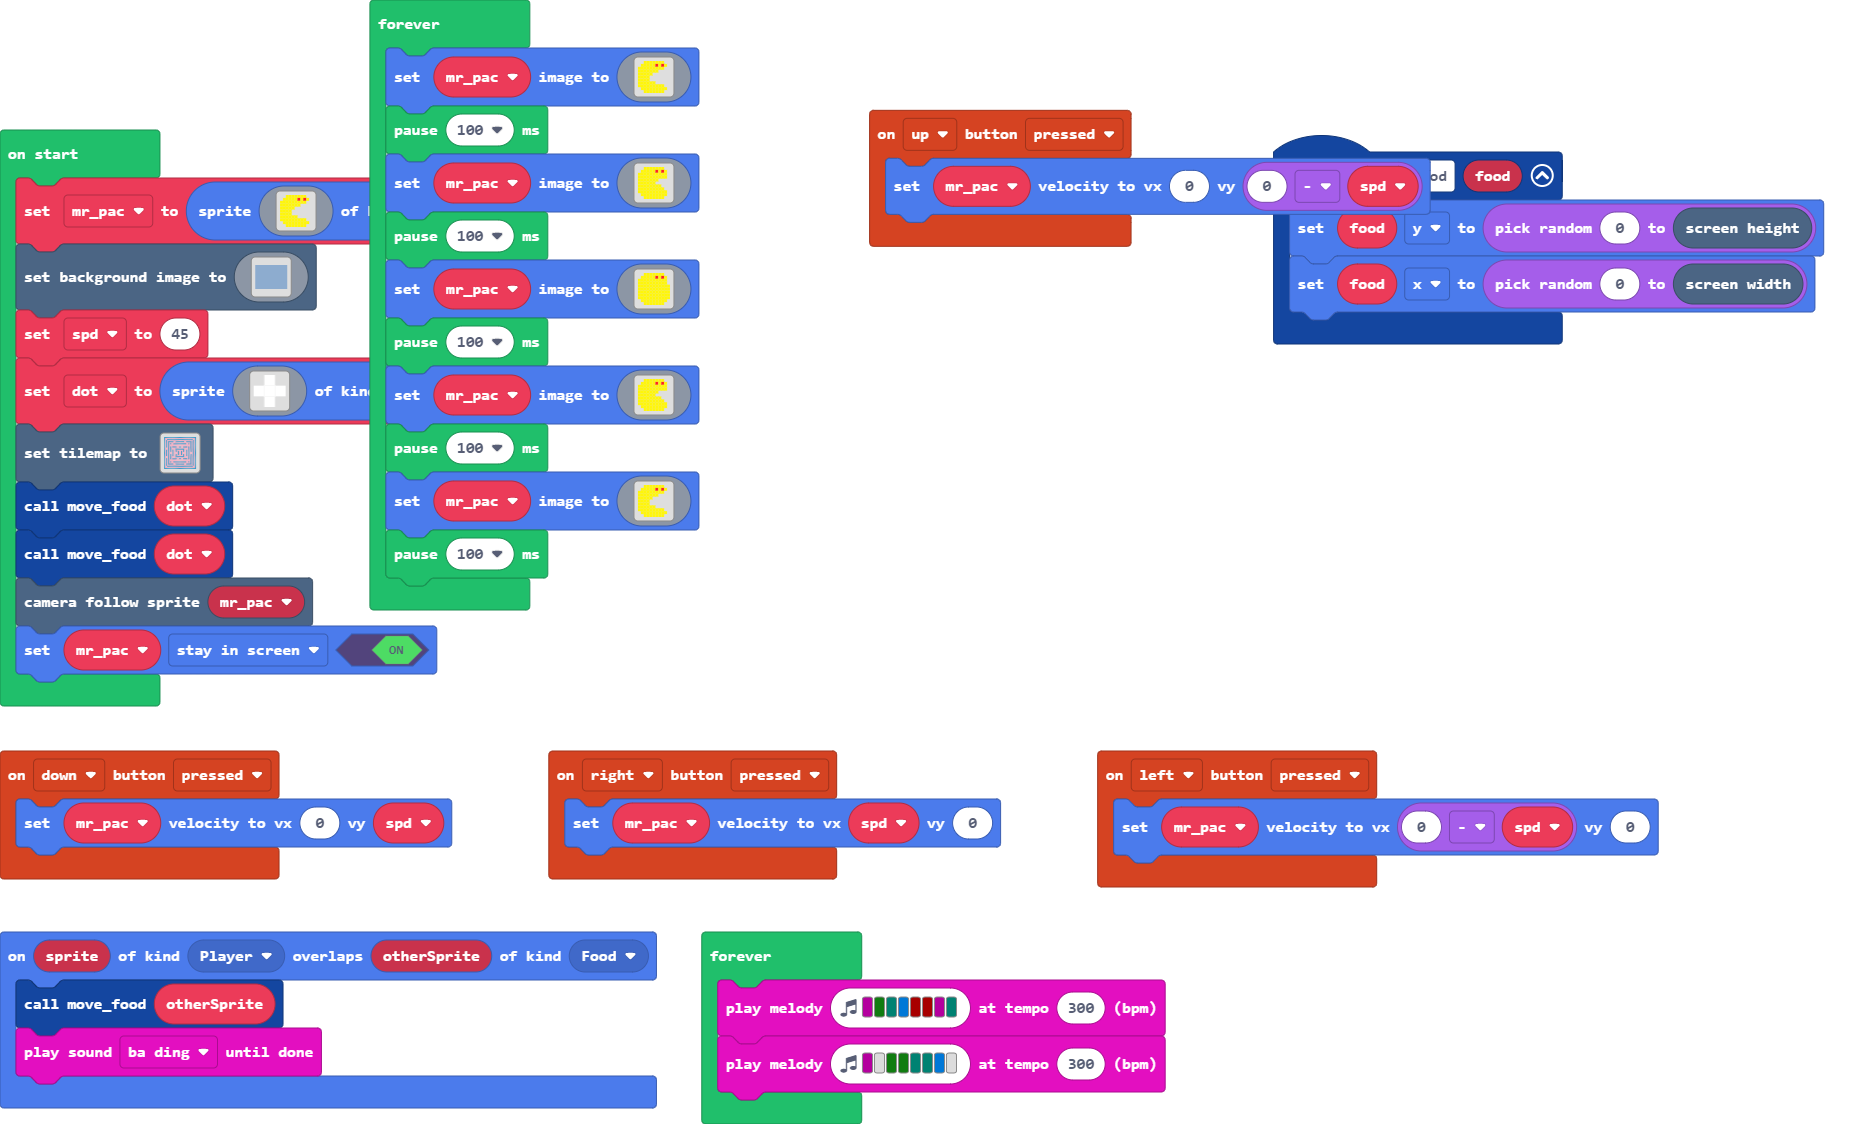
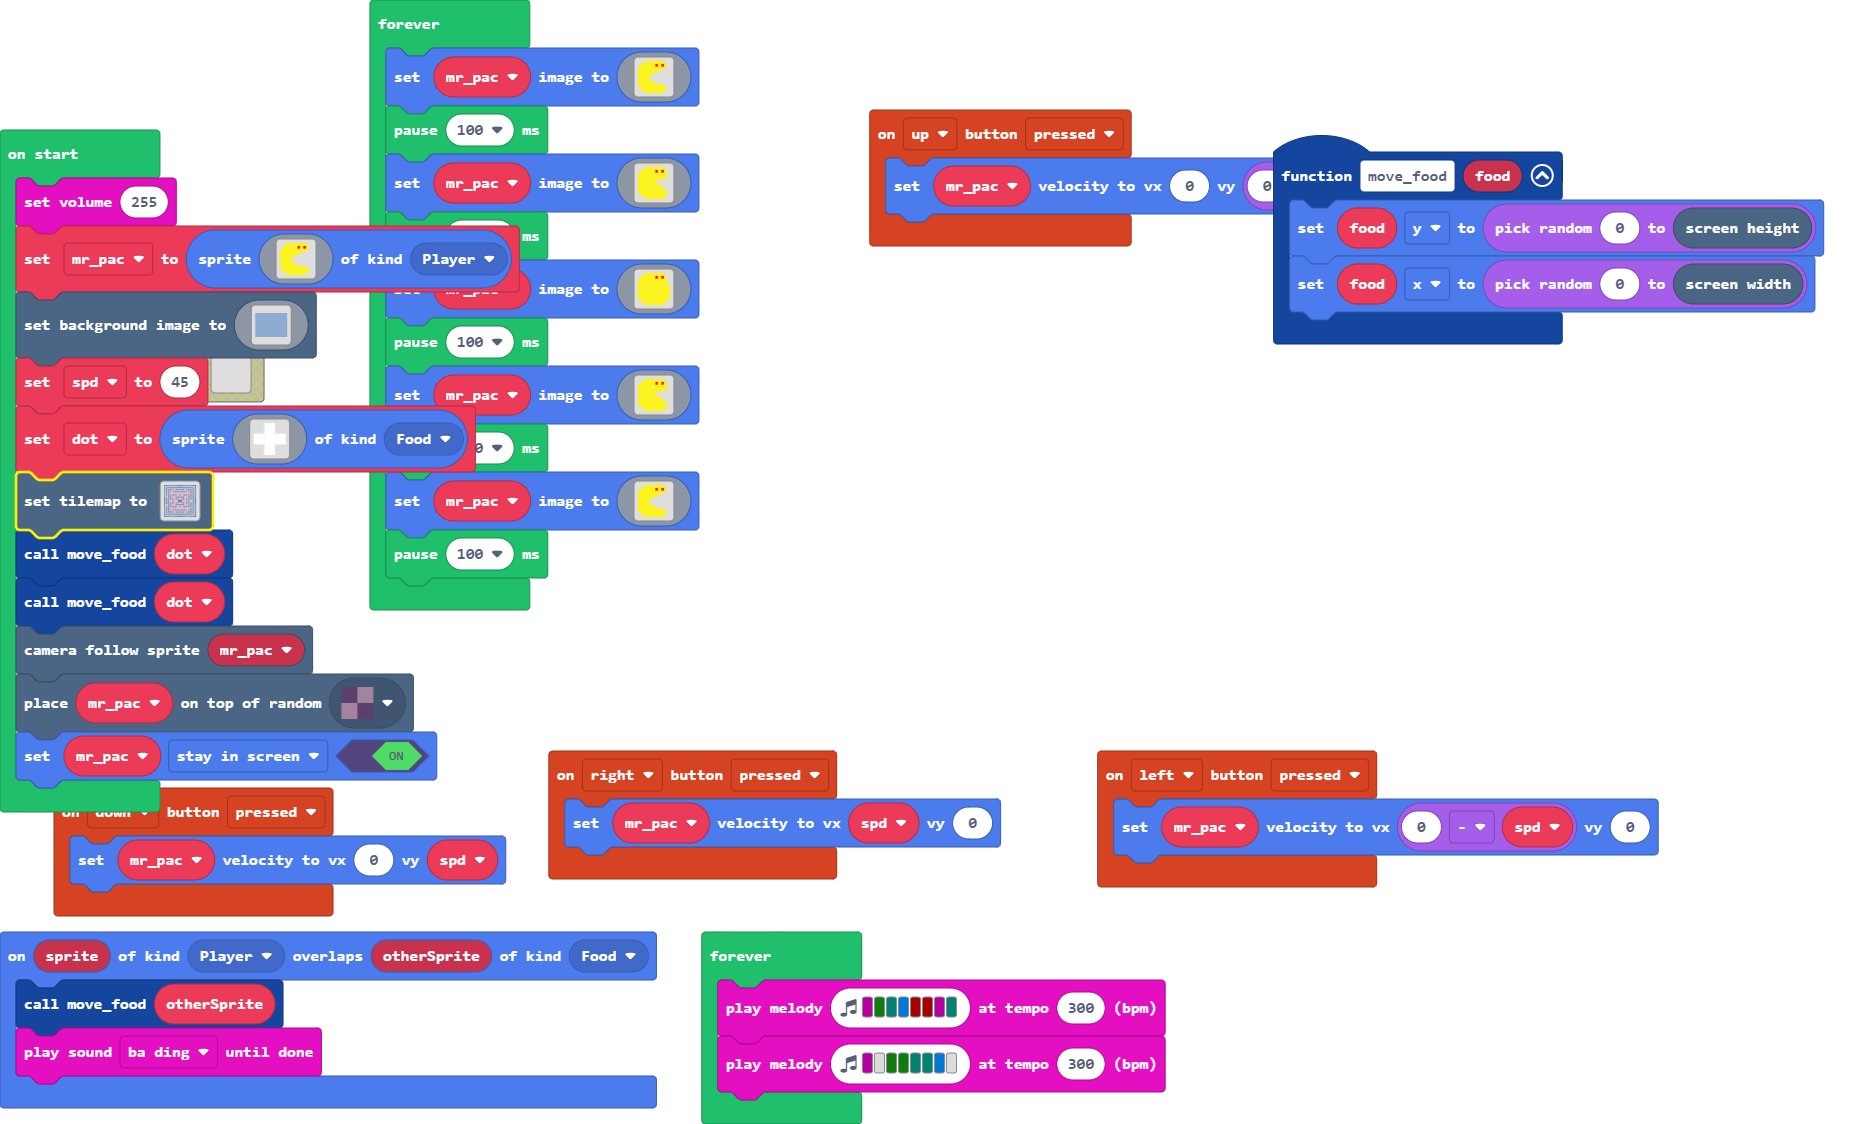
Update main.blocks, main.ts

Changed region(s): [[0.0, 0.1557, 0.2783, 0.8407], [0.6802, 0.1246, 0.7729, 0.218]]

diff --git a/main.ts b/main.ts
@@ -20,6 +20,7 @@ sprites.onOverlap(SpriteKind.Player, SpriteKind.Food, function (sprite, otherSpr
 })
 let spd = 0
 let mr_pac: Sprite = null
+music.setVolume(255)
 mr_pac = sprites.create(img`
     . . 5 5 5 5 5 5 5 . . 
     . 5 5 5 5 5 2 5 2 5 . 
@@ -161,7 +162,7 @@ let dot = sprites.create(img`
     1 1 1 
     . 1 . 
     `, SpriteKind.Food)
[2 lines of base64/hex data omitted]
     222222222222222222222222222222
     2............................2
     2..222222222222222222222222..2
@@ -192,10 +193,11 @@ tiles.setTilemap(tiles.createTilemap(hex`1e001e000101010101010101010101010101010
     2..222222222222222222222222..2
     2............................2
     222222222222222222222222222222
-    `, [myTiles.transparency16,myTiles.tile2,myTiles.tile3], TileScale.Sixteen))
+    `, [myTiles.transparency16,myTiles.tile2,myTiles.tile3,myTiles.tile1,myTiles.tile4], TileScale.Sixteen))
 move_food(dot)
 move_food(dot)
 scene.cameraFollowSprite(mr_pac)
+tiles.placeOnRandomTile(mr_pac, myTiles.tile1)
 mr_pac.setFlag(SpriteFlag.StayInScreen, true)
 forever(function () {
     mr_pac.setImage(img`
